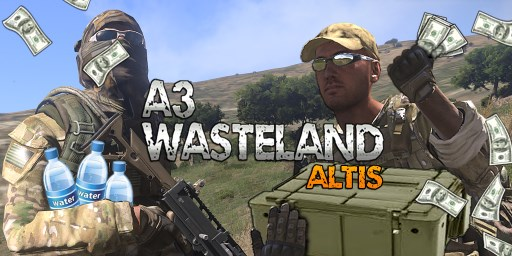
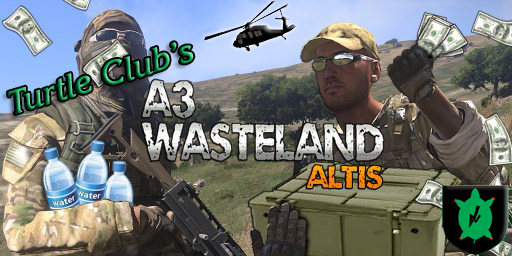
Updated Gear and Server Title

diff --git a/client/systems/hud/dialog/hud.hpp b/client/systems/hud/dialog/hud.hpp
@@ -13,6 +13,7 @@
 #define hud_vehicle_idc 3601
 #define hud_activity_icon_idc 3602
 #define hud_activity_textbox_idc 3603
+#define hud_server_idc 3604
 
 class WastelandHud {
 	idd = -1;
@@ -29,8 +30,8 @@ class WastelandHud {
 			type = CT_STRUCTURED_TEXT;
 			size = 0.040;
 			x = safeZoneX + (safeZoneW * (1 - (0.42 / SafeZoneW)));
-			y = safeZoneY + (safeZoneH * (1 - (0.33 / SafeZoneH)));
-			w = 0.4; h = 0.65;
+			y = safeZoneY + (safeZoneH * (1 - (0.37 / SafeZoneH)));
+			w = 0.4; h = 0.69;
 			colorText[] = {1,1,1,1};
 			lineSpacing = 3;
 			colorBackground[] = {0,0,0,0};
@@ -46,8 +47,8 @@ class WastelandHud {
 			type = CT_STRUCTURED_TEXT;
 			size = 0.040;
 			x = safeZoneX + (safeZoneW * (1 - (0.24 / SafeZoneW)));
-			y = safeZoneY + (safeZoneH * (1 - (0.22 / SafeZoneH)));
-			w = 0.22; h = 0.22;
+			y = safeZoneY + (safeZoneH * (1 - (0.26 / SafeZoneH)));
+			w = 0.22; h = 0.26;
 			colorText[] = {1,1,1,1};
 			lineSpacing = 3;
 			colorBackground[] = {0,0,0,0};
@@ -93,6 +94,23 @@ class WastelandHud {
 			class Attributes {
 				align = "left";
 				valign = "middle";
+			};
+		};
+		class WastelandHud_Server:w_RscText
+		{
+			idc = hud_server_idc;
+			type = CT_STRUCTURED_TEXT;
+			size = 0.040;
+			x = safeZoneX + (safeZoneW * (1 - (0.90 / SafeZoneW)));
+			y = safeZoneY + (safeZoneH * (1 - (0.15 / SafeZoneH)));
+			w = 0.40; h = 0.15;
+			colorText[] = {1,1,1,1};
+			lineSpacing = 3;
+			colorBackground[] = {0,0,0,0};
+			text = "";
+			shadow = 2;
+			class Attributes {
+				align = "right";
 			};
 		};
 	};
